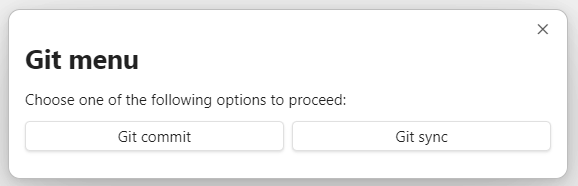
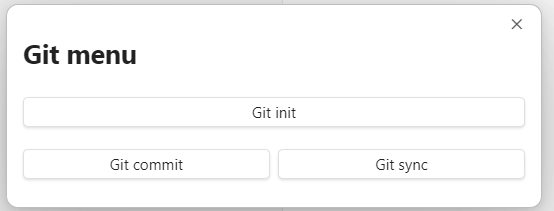
Update readme and bump version to 0.3.1

Changed region(s): [[0.0, 0.0, 0.9819, 0.9946], [0.0614, 0.6452, 0.491, 0.672], [0.491, 0.7258, 0.5217, 0.7796]]

diff --git a/README.md b/README.md
@@ -1,41 +1,47 @@
 # Obsidian Git Integration Plugin
 
-This is a Git Integration plugin for Obsidian (https://obsidian.md).
+This is a Git Integration plugin for Obsidian (https://obsidian.md) to allow users to easily backup their obsidian vault on a remote repository.
 
-Features:
-- initialise repository
-- specify remote url
-- add and commit all files aside from gitignore
-- push to remote repository
+This plugin works on Windows 10+ and requires Git to be installed in the local system.
 
-### Initialise the repository
+- [Open the git menu](#open-the-git-menu)
+- [Setup remote repository](#setup-remote-repository)
+- [Create a commit](#create-a-commit)
+- [Sync with remote repository](#sync-with-remote-repository)
 
-Create an empty repository on GitHub.
+### Open the git menu
 
-Open the command palette (Ctrl+P on Windows) and search "Open init repository modal".
-
-Paste the remote repository url and click "Initialize" to finish setting up.
-
-### Create a commit
 
 Click "Open git menu" ribbon icon.
 
 ![Git menu ribbon](docs/images/image.png)
 
-The menu will pop up.
+The menu will pop up, which shows options to init, commit or sync.
 
 ![Git menu modal](docs/images/image-1.png)
 
-Select "Git commit". Alternatively use the command palette and search "Open commit changes modal".
+### Setup remote repository
 
-![Git commit modal](docs/images/image-2.png)
+Create an empty repository on GitHub.
+
+Open to the git menu and select "Git init" or open the command palette (Ctrl+P on Windows) and search "Open init repository modal".
+
+![Git init modal](docs/images/image-2.png)
+
+Paste the remote repository url and click "Initialize" to finish setting up.
+
+### Create a commit
+
+Open to the git menu and select "Git commit" or open the command palette (Ctrl+P on Windows) and search "Open commit changes modal".
+
+![Git commit modal](docs/images/image-3.png)
 
 Enter a commit message and click "Commit". This is equivalent to performing `git add .` followed by `git commit -m "<message>"`.
 
 ### Sync with remote repository
 
-Select "Git sync" from the git menu. Alternatively use the command palette and search "Sync with remote repository".
+Open to the git menu and select "Git sync" or open the command palette (Ctrl+P on Windows) and search "Sync with remote repository".
 
-![Git sync modal](docs/images/image-3.png)
+![Git sync modal](docs/images/image-4.png)
 
 Click "Sync" to push new changes to remote.
